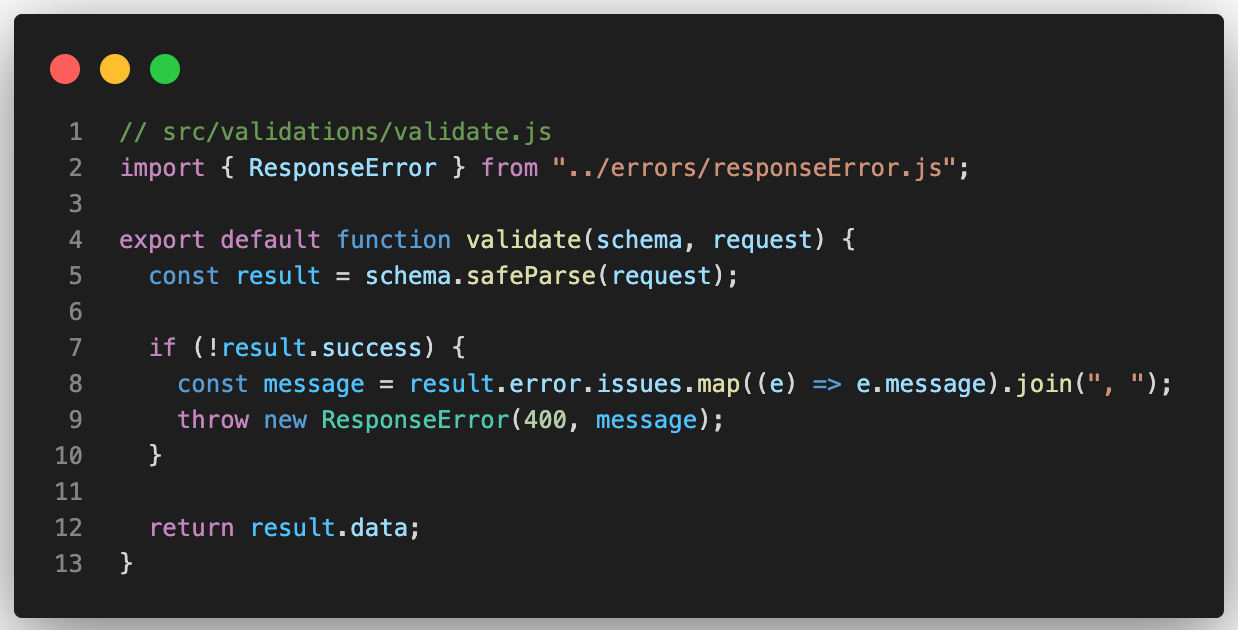
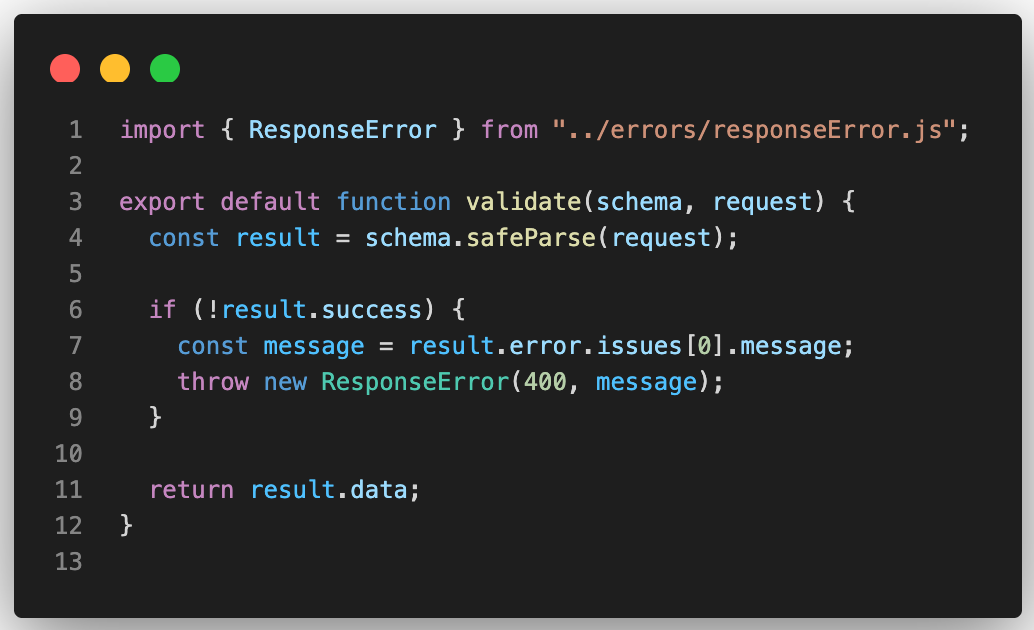
chore: update

diff --git a/03-zod-validation.md b/03-zod-validation.md
@@ -1,7 +1,9 @@
 # Menerapkan Validasi Input dengan Zod di Express.js
 
 ## 🎯 Tujuan
+
 Memisahkan validasi input dari service dan controller agar:
+
 - Validasi lebih konsisten.
 - Kode lebih rapi dan mudah dipelihara.
 - Error validasi ditangani dengan format `JSON` yang seragam.
@@ -15,6 +17,7 @@ npm install zod
 ```
 
 Keterangan:
+
 > Zod adalah library untuk validasi schema data dengan TypeScript/JavaScript. Bisa digunakan untuk request body, query, params, dll.
 
 ---
@@ -27,26 +30,41 @@ src/
     └── userValidation.js # Berisi schema validasi data user
 ```
 
-## 3. Buat Schema untuk Create User
+## 3. Buat Schema untuk Create dan Update User
 
 Di file `userValidation.js`, isi dengan:
 
-<img src="./assets/validation/image-1.png" alt="error handling" width="600" height="400" />
+<img src="./assets/validation/image-1.png" alt="zod validation" width="600" height="600" />
 
 Penjelasan:
-- `z.object({...})` → mendefinisikan struktur object.
-- `z.string().min(3, "...")` → string minimal 3 karakter.
-- `z.email("...")` → harus email valid.
-- Semua field wajib diisi (untuk create user).
+
+#### a. Schema `createUserSchema`
+
+Digunakan saat membuat user baru.  
+Semua field **wajib diisi**, misalnya:
+
+- `fullname` → minimal 3 karakter.
+- `username` → tidak boleh mengandung spasi.
+- `email` → harus format email valid.
+- `role` → hanya boleh `'admin'` atau `'user'`.
+
+#### b. Schema `updateUserSchema`
+
+Digunakan saat mengubah data user.  
+Semua field **bersifat opsional**, tapi jika dikirim:
+
+- Harus tetap sesuai aturan (misal: `fullname` tetap minimal 3 karakter).
+- `phone_number` harus format `08xxxxxxxxxx` (antara 10–15 digit).
+- `age` harus angka antara 10 dan 100.
 
 ## 4. Test Schema di Service
 
 Di `userService.js`, kita akan jalankan validasi di `createUser` dan log hasilnya sebelum diproses:
 
-<img src="./assets/validation/image-2.png" alt="error handling" width="600" height="400" />
-
+<img src="./assets/validation/image-2.png" alt="zod validation" width="600" height="400" />
 
 Contoh `log` jika input tidak valid:
+
 ```json
 {
   "success": false,
@@ -58,34 +76,69 @@ Contoh `log` jika input tidak valid:
 ```
 
 Penjelasan log:
+
 - `safeParse()` mengembalikan { success, data?, error? }.
-- Jika `success = true` → data valid ada di result.data. 
+- Jika `success = true` → data valid ada di result.data.
 - Jika `success = false` → input tidak valid.
 - `error.name: "ZodError"` → tipe error dari Zod.
 - `message` → detail field yang bermasalah:
   - `path: ["fullname"]` → field yang error.
   - `message: "fullname minimal 3 karakter"` → pesan validasi dari schema.
 
-
-
 ## 5. Buat Helper Validasi
+
 Supaya tidak menulis kode validasi berulang, kita bisa dengan membuat helper:
 
-<img src="./assets/validation/image-3.png" alt="error handling" width="600" height="400" />
+```bash
+src/
+└── validations/
+    └── userValidation.js # Sebelumnya
+    └── validate.js       # Helper untuk eksekusi validasi & error handling
+```
 
-## 6. Implementasi Helper di Service
-Sebelum query database, kita gunakan helper validate untuk memastikan input sesuai schema. Service tetap fokus ke logika database, validasi ditangani terpusat.
-
-Buka file `userService.js` dan pada method `createUser`, gunakan helper `validate` seperti ini:
-
-<img src="./assets/validation/image-4.png" alt="error handling" width="600" height="400" />
+<img src="./assets/validation/image-3.png" alt="zod validation" width="600" height="400" />
 
 Penjelasan:
+
+- `schema.safeParse(request)` → memeriksa apakah data request sesuai dengan schema Zod.
+
+- `result.success` → bernilai true jika valid, false jika tidak.
+
+- Jika tidak valid (!result.success):
+
+  - Ambil pesan error `pertama` dari result.error.issues[0].message.
+
+  - Lempar `ResponseError(400, message)` agar middleware error menanganinya.
+
+- Jika valid, kembalikan result.data sebagai hasil data yang sudah terverifikasi.
+
+## 6. Implementasi Helper di Service
+
+Sebelum query database, kita gunakan helper validate untuk memastikan input sesuai schema. Service tetap fokus ke logika database, validasi ditangani terpusat.
+
+1. Buka file `userService.js` dan pada method `createUser`, gunakan helper `validate` seperti ini:
+   <img src="./assets/validation/image-4.png" alt="zod validation" width="600" height="400" />
+
+2. Lalu pada method `updateUser`, gunakan helper `validate` seperti ini:
+   <img src="./assets/validation/image-5.png" alt="zod validation" width="600" height="400" />
+
+Penjelasan:
+
 - `validate(schema, request)` otomatis memeriksa input.
 - Jika input tidak valid, helper melempar `ResponseError` → ditangani oleh `middleware error`.
 - Jika `valid`, data siap digunakan untuk `query database`.
 - Dengan cara ini, service tetap bersih dan fokus pada logika database, bukan validasi.
 
+## 7. Contoh Response Error
+
+Jika input tidak valid saat create user, response JSON dari API:
+
+```json
+{
+  "status": "fail",
+  "message": "fullname minimal 3 karakter"
+}
+```
 
 ## Kesimpulan
 
